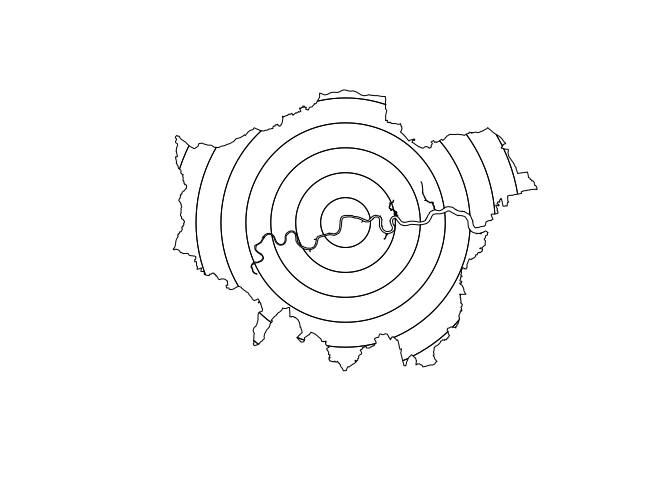
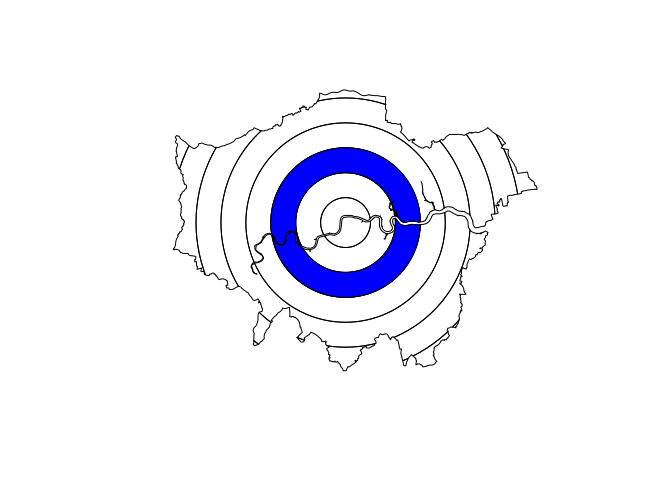
Make sq_dohnut more efficient

Changed region(s): [[0.375, 0.2812, 0.625, 0.625]]

diff --git a/README.md b/README.md
@@ -57,7 +57,25 @@ plot(sq_dohnut(x, n = 4))
 <img src="man/figures/README-unnamed-chunk-4-1.png" width="100%" />
 
 ``` r
-plot(sq_dohnut(x, d = 4))
+dohnut_4km = sq_dohnut(x, d = 4)
+dohnut_4km
+#> Simple feature collection with 8 features and 0 fields
+#> geometry type:  GEOMETRY
+#> dimension:      XY
+#> bbox:           xmin: 503458.6 ymin: 155907.5 xmax: 561840.6 ymax: 200985.4
+#> epsg (SRID):    27700
+#> proj4string:    +proj=tmerc +lat_0=49 +lon_0=-2 +k=0.9996012717 +x_0=400000 +y_0=-100000 +ellps=airy +units=m +no_defs
+#>   sf..st_intersection.x..dohnuts.
+#> 1  MULTIPOLYGON (((535049.7 18...
+#> 2  MULTIPOLYGON (((538984.3 18...
+#> 3  MULTIPOLYGON (((543099.1 17...
+#> 4  MULTIPOLYGON (((546930.3 18...
+#> 5  POLYGON ((528333.1 159903.3...
+#> 6  MULTIPOLYGON (((534895.7 15...
+#> 7  MULTIPOLYGON (((517141.3 16...
+#> 8  MULTIPOLYGON (((504453.2 18...
+plot(sf::st_geometry(dohnut_4km))
+plot(dohnut_4km[3, ], col = "blue", add = TRUE)
 ```
 
 <img src="man/figures/README-unnamed-chunk-4-2.png" width="100%" />
